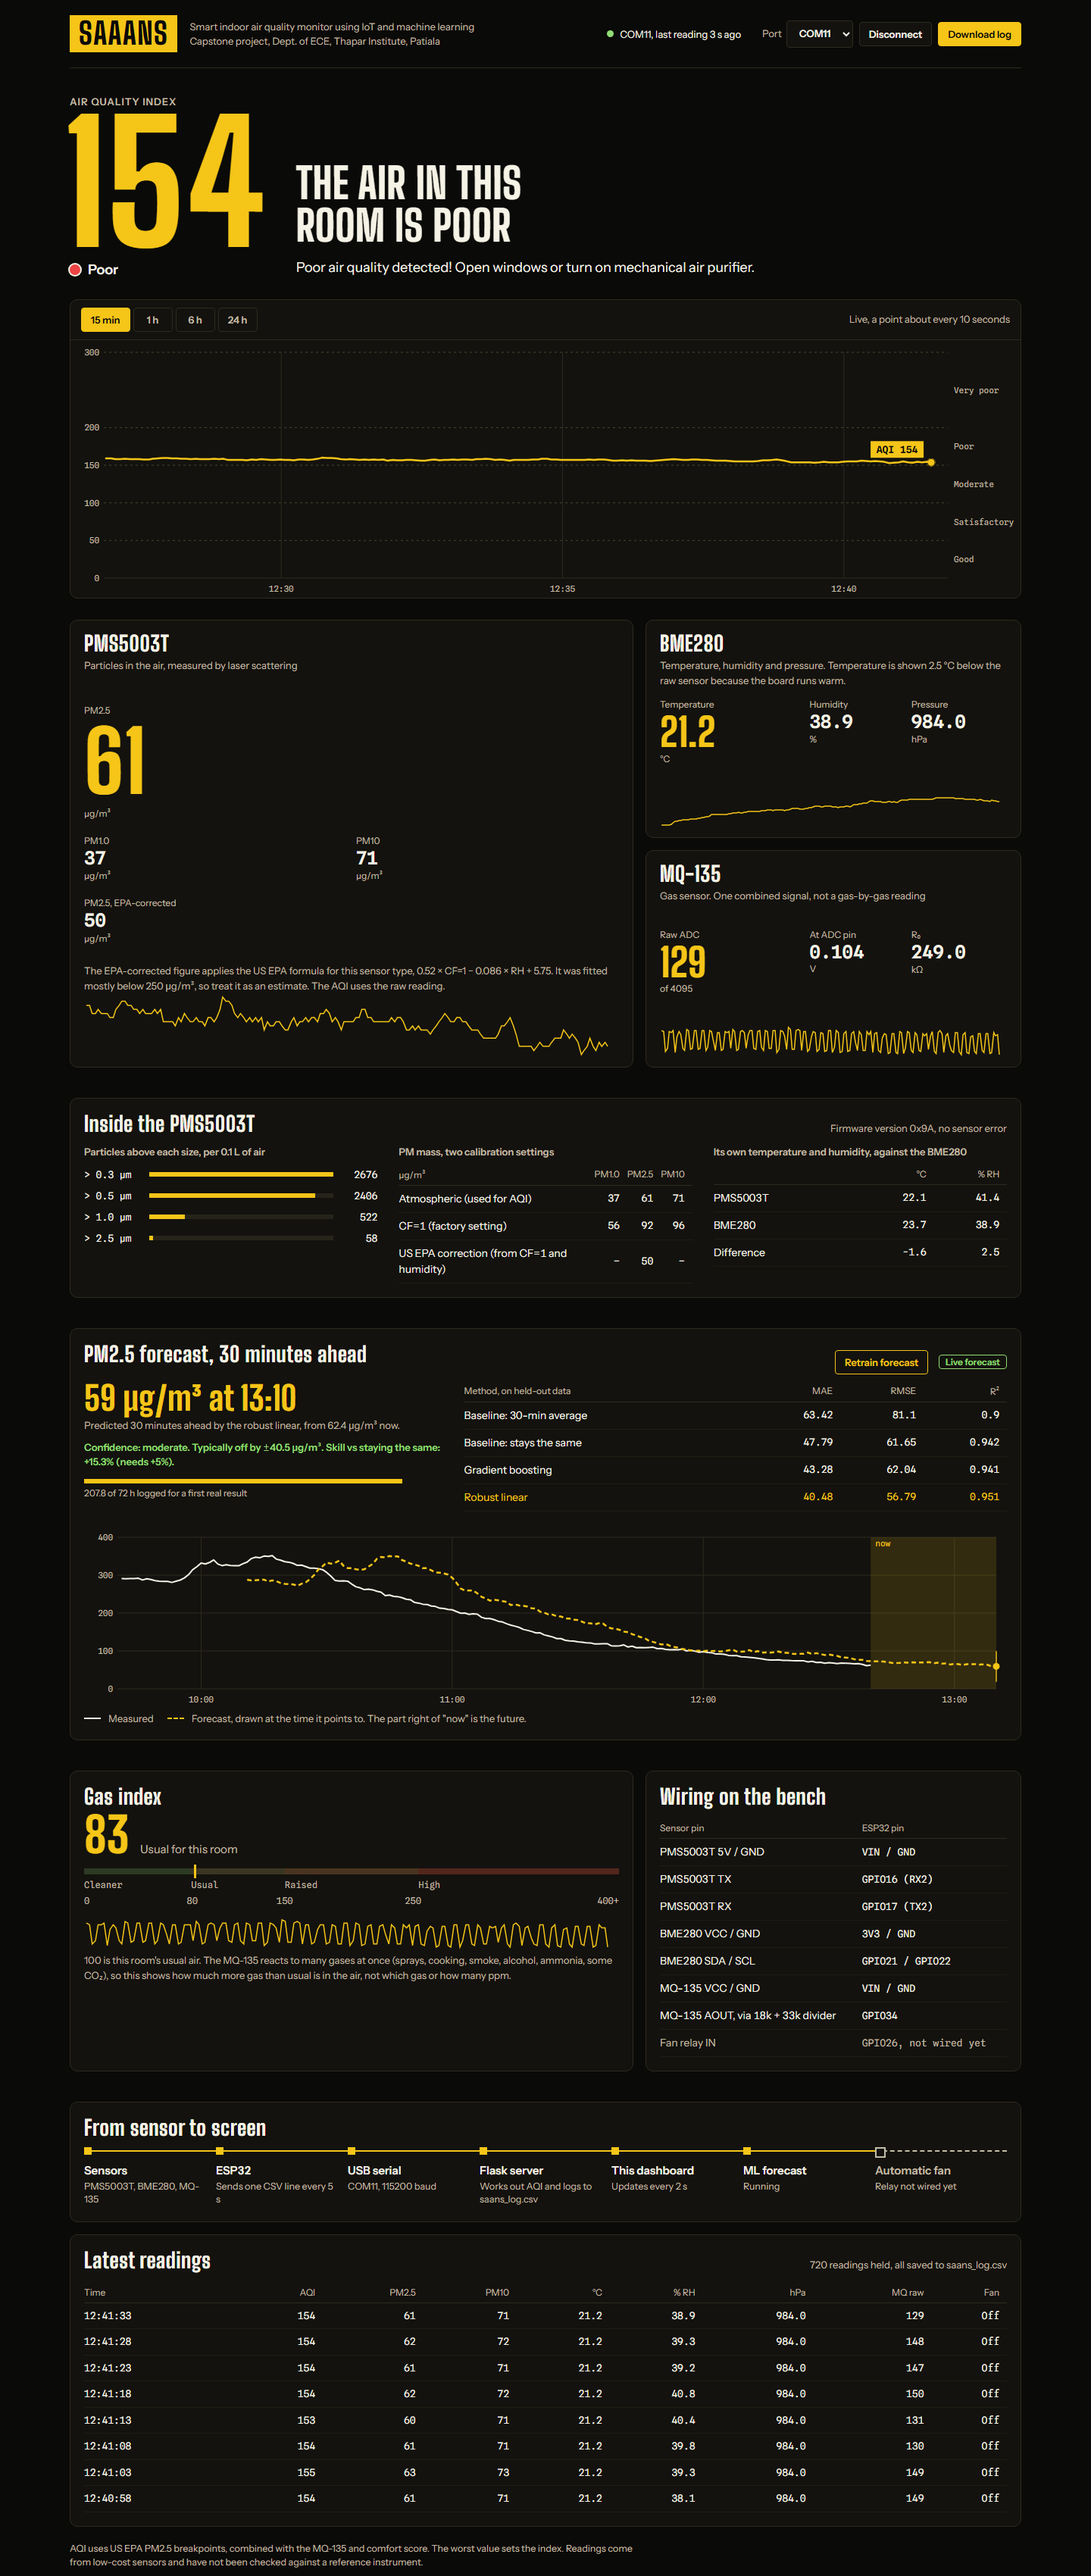
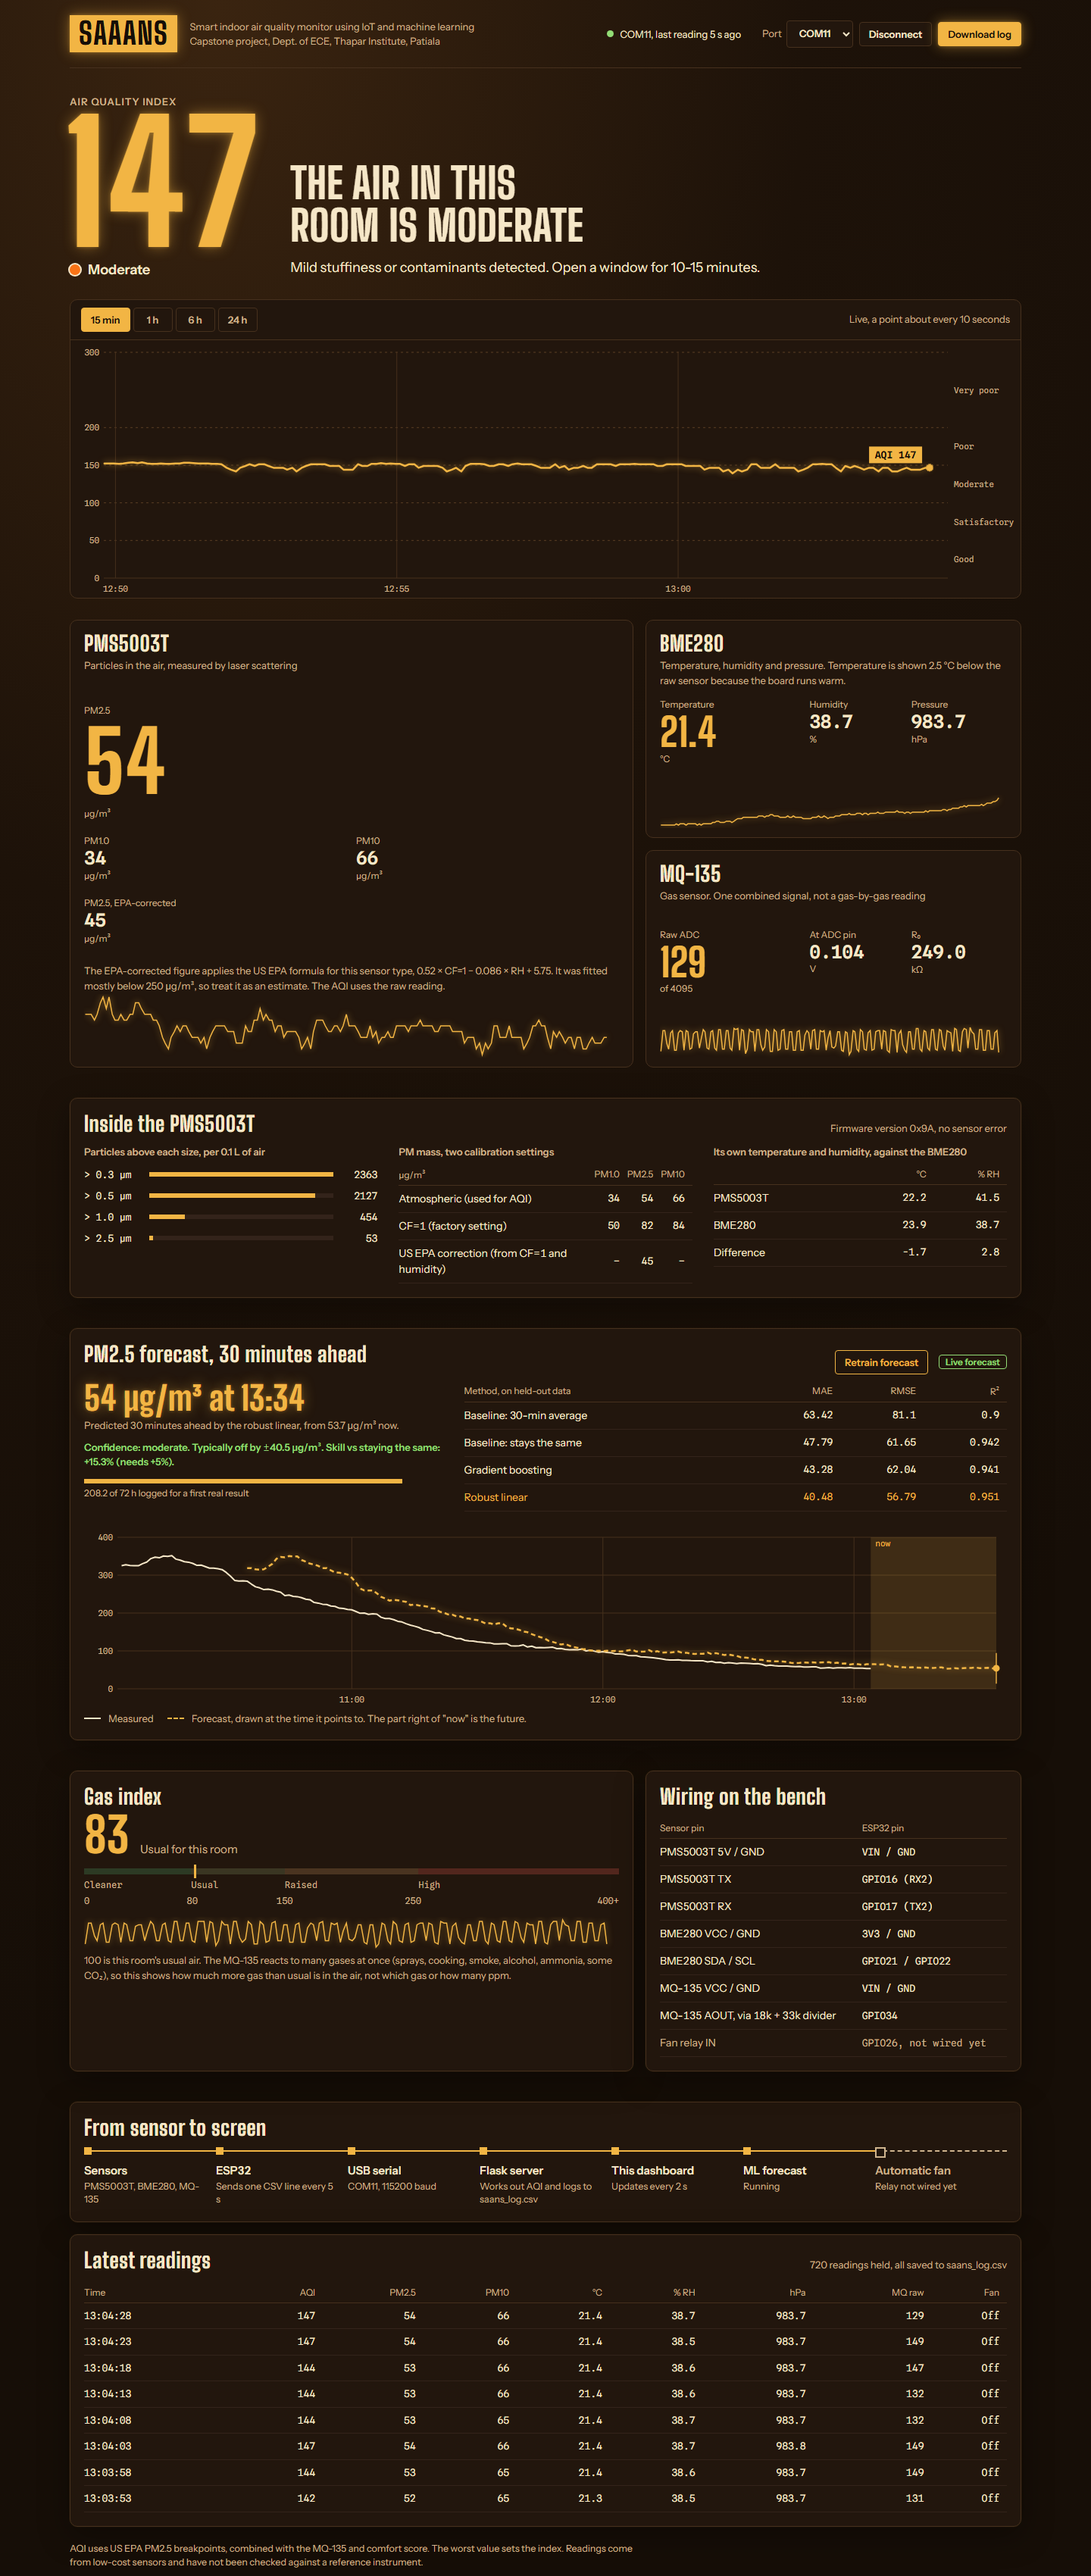
Restyle dashboard in brown and gold, refresh screenshots

diff --git a/static/css/style.css b/static/css/style.css
@@ -1,12 +1,12 @@
-/* SAAANS dashboard. Black and gold, taken from the ESP32 board's solder mask and pads. */
+/* SAAANS dashboard. Deep brown and glowing gold, matching the README artwork. */
 :root {
-  --black: #0a0a08;
-  --panel: #13120e;
-  --line: #2e2b1f;
-  --silk: #f5f2e6;
-  --dim: #c2bda6;           /* secondary text, about 9:1 on the panel colour */
-  --gold: #f5c518;
-  --gold-soft: rgba(245, 197, 24, 0.14);
+  --black: #160e07;
+  --panel: #22160d;
+  --line: #46301d;
+  --silk: #f6e7c8;
+  --dim: #cfb48e;           /* secondary text, about 9:1 on the panel colour */
+  --gold: #f2b544;
+  --gold-soft: rgba(242, 181, 68, 0.14);
   --alert: #ff6f4d;
   --ok: #93dd76;
   /* Spacing and corners. Space within a group is --s2; between groups it is --s4. */
@@ -73,7 +73,7 @@ select, .btn {
 .btn:hover { border-color: var(--gold); }
 .btn:disabled { opacity: 0.6; cursor: wait; }
 .btn-gold { background: var(--gold); border-color: var(--gold); color: var(--black); }
-.btn-gold:hover { background: #ffd83d; }
+.btn-gold:hover { background: #ffc95e; }
 
 /* Hero: one focal point, the AQI number, with the plain-language verdict beside it */
 .hero { padding: 36px 0 28px; }
@@ -106,7 +106,7 @@ select, .btn {
 }
 #recorder { display: block; width: 100%; height: 340px; }
 #recorder .grid { stroke: var(--line); stroke-width: 1; }
-#recorder .limit { stroke: #4a4530; stroke-width: 1; stroke-dasharray: 3 4; }
+#recorder .limit { stroke: #5a3e24; stroke-width: 1; stroke-dasharray: 3 4; }
 #recorder text { font: 400 11px var(--mono); fill: var(--dim); }
 #recorder .trace { fill: none; stroke: var(--gold); stroke-width: 2.5; stroke-linejoin: round; stroke-linecap: round; }
 #recorder .pen { fill: var(--gold); }
@@ -165,12 +165,12 @@ select, .btn {
 .scroll-x { overflow-x: auto; margin-top: 12px; }
 table { width: 100%; border-collapse: collapse; font-size: 14px; }
 th { text-align: left; font: 400 12px var(--body); color: var(--dim); padding: 6px 10px 6px 0; border-bottom: 1px solid var(--line); white-space: nowrap; }
-td { padding: 7px 10px 7px 0; border-bottom: 1px solid #1f1d15; }
+td { padding: 7px 10px 7px 0; border-bottom: 1px solid #33231a; }
 .num { text-align: right; }
 td.num, .log-table td, .pin-table td:last-child { font-family: var(--mono); font-size: 13px; }
 .meter-col { width: 34%; padding-left: 14px; }
 td.meter-col { padding-left: 14px; }
-.meter { height: 6px; background: #26241a; }
+.meter { height: 6px; background: #33231a; }
 .meter span { display: block; height: 100%; background: var(--gold); }
 .meter.over span { background: var(--alert); }
 .pending td, .pending { color: var(--dim); }
@@ -297,3 +297,12 @@ body.loading .spark { opacity: 0.25; }
 .gi-ticks { grid-template-columns: 80fr 70fr 100fr 150fr 0fr; }
 .gi-ticks span:last-child { justify-self: end; white-space: nowrap; }
 #sparkGas { margin-top: 14px; }
+
+/* Warm backdrop and gold glow */
+html { background: radial-gradient(120% 80% at 20% 0%, #3a2410 0%, #1d1209 45%, var(--black) 100%) fixed; }
+body { background: transparent; }
+:root { --glow: 0 0 18px rgba(242, 181, 68, 0.45), 0 0 4px rgba(242, 181, 68, 0.35); }
+.aqi-number, .fc-headline { text-shadow: var(--glow); }
+.wordmark, .btn-gold { box-shadow: var(--glow); }
+.panel { box-shadow: 0 0 0 1px rgba(242, 181, 68, 0.04), 0 12px 40px rgba(0, 0, 0, 0.35); }
+#recorder .trace, #fcChart .predicted, .spark path { filter: drop-shadow(0 0 4px rgba(242, 181, 68, 0.6)); }
